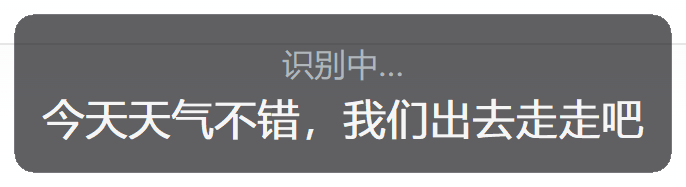
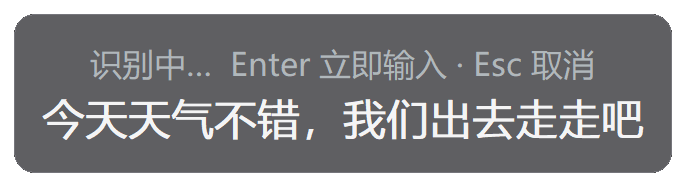
聆听或识别中按回车立即输入当前结果，Esc 取消识别

diff --git a/app/voice_ime.py b/app/voice_ime.py
@@ -41,7 +41,7 @@ HOTWORDS_HEADER = ("# 热词替换：每行一条，格式：原文 -> 替换为
                    "# 以 # 开头的行会被忽略，修改后下次识别自动生效\n")
 ICON_NAME = "icon.ico"
 FLOAT_ICON_NAME = "float.ico"
-APP_RELEASE = "2.2.5"
+APP_RELEASE = "2.2.6"
 PROJECT_URL = "https://github.com/yc-2018/DoubaoVoiceIME"
 DEFAULT_HOTKEY = "RALT"
 RUN_KEY = r"Software\Microsoft\Windows\CurrentVersion\Run"
@@ -636,8 +636,10 @@ class AsrSession:
         self.audio = bytearray()
         self.feed_stop = threading.Event()
         self.release_evt = threading.Event()
+        self.commit_evt = threading.Event()
         self.final_evt = threading.Event()
         self.cancelled = False
+        self.drop_tail = False
         self.closed = False
         self.text = ""
         self.speech_sec = 0.0
@@ -677,8 +679,16 @@ class AsrSession:
     def request_release(self):
         self.release_evt.set()
 
+    def commit(self):
+        # 回车：结束录音；已有结果时不再等最终回调，直接用当前文字
+        self.release_evt.set()
+        if self.text.strip():
+            self.commit_evt.set()
+            self.drop_tail = True
+
     def cancel(self):
         self.cancelled = True
+        self.drop_tail = True
         self.feed_stop.set()
         self.release_evt.set()
 
@@ -727,7 +737,7 @@ class AsrSession:
                 dt = t0 + n * 0.04 - time.perf_counter()
                 if dt > 0:
                     time.sleep(dt)
-        if not self.cancelled and self.h:
+        if not self.cancelled and not self.drop_tail and self.h:
             with self.lock:
                 tail = bytes(self.audio)
                 self.audio.clear()
@@ -789,11 +799,22 @@ class AsrSession:
         if self.feed_thread:
             with self.lock:
                 remain = len(self.audio)
-            self.feed_thread.join(remain / 32000.0 + 5.0)
+            end = time.monotonic() + remain / 32000.0 + 5.0
+            while self.feed_thread.is_alive() and time.monotonic() < end:
+                if self.cancelled:
+                    break
+                self.feed_thread.join(0.02)
+        if self.cancelled:
+            return
         t = time.perf_counter()
         rc = self.dll.SAMICoreSetProperty(self.h, 0xA2A, None)
         log(f"finish rc={rc}")
-        self.final_evt.wait(4.0)
+        end = time.monotonic() + 4.0
+        while not (self.final_evt.is_set() or self.commit_evt.is_set()
+                   or self.cancelled):
+            if time.monotonic() >= end:
+                break
+            time.sleep(0.02)
         self.finished = True
         log(f"final after {time.perf_counter() - t:.2f}s text={self.text!r}")
 
@@ -2069,6 +2090,11 @@ class Hotkey:
             self.down.add(tok)
             if tok == "ESC" and self.app.on_cancel():
                 self.active = False
+                self.swallowed.add(tok)
+                return True
+            if tok == "ENTER" and not injected and self.app.on_commit():
+                self.active = False
+                self.swallowed.add(tok)
                 return True
             if not injected:
                 if (not repeated and self._ctrl_z(tok)
@@ -5158,7 +5184,8 @@ class App:
         try:
             if sess.cancelled:
                 return
-            self.set_ui("rec", f"● 聆听中…  {self.hotkey.release_hint()}", live="")
+            self.set_ui("rec", f"● 聆听中…  {self.hotkey.release_hint()}"
+                        f" · Enter 立即输入", live="")
             if not self.args.wav:
                 if self.mic_mode == "press" or self.mic.stream is None:
                     try:
@@ -5186,9 +5213,17 @@ class App:
                 self.mic.detach(sess)
                 if press_mic:
                     self.mic.close()
-            self.set_ui("wait", "识别中…")
+            commit_evt = getattr(sess, "commit_evt", None)
+            if commit_evt is not None and commit_evt.is_set():
+                self.set_ui("wait", "已确认，正在输入…")
+            else:
+                self.set_ui("wait", "识别中…  Enter 立即输入 · Esc 取消")
             sess.finish()
             self.accept_live = False
+            if sess.cancelled:
+                log("session cancelled during finish")
+                return
+            sess.injecting = True
             text = apply_hotwords(format_text(sess.text, self.punctuation,
                                               self.paragraph_mode))
             if text:
@@ -5548,11 +5583,29 @@ class App:
             return
         sess.request_release()
 
+    def on_commit(self):
+        """回车：聆听/识别中直接用当前结果输入，不再等待最终识别。"""
+        if self.capturing or self.testing:
+            return False
+        with self.lock:
+            sess = self.session
+        if sess is None or sess.cancelled or getattr(sess, "injecting", False):
+            return False
+        evt = getattr(sess, "commit_evt", None)
+        if evt is None:
+            return False
+        if evt.is_set():
+            return True
+        sess.commit()
+        log(f"commit hotkey text={len(sess.text)} chars")
+        return True
+
     def on_cancel(self):
         with self.lock:
             sess = self.session
-        if sess:
+        if sess and not sess.cancelled and not getattr(sess, "injecting", False):
             sess.cancel()
+            log("cancel hotkey")
             return True
         return False
 

diff --git a/app/api_wetype.py b/app/api_wetype.py
@@ -115,6 +115,7 @@ class WeChatSession:
         self.cancelled = False
         self.closed = False
         self.release_evt = threading.Event()
+        self.commit_evt = threading.Event()
         self._stop = threading.Event()
         self._lock = threading.Lock()
         self._audio = bytearray()
@@ -139,6 +140,12 @@ class WeChatSession:
 
     def request_release(self):
         self.release_evt.set()
+
+    def commit(self):
+        # 回车：结束录音；已有结果时跳过润色等待，直接用当前文字
+        self.release_evt.set()
+        if self.text.strip():
+            self.commit_evt.set()
 
     def cancel(self):
         self.cancelled = True
@@ -227,7 +234,7 @@ class WeChatSession:
                 del packets[:PACKETS_PER_REQUEST]
             self._upload(packets, True)
             for _ in range(8):
-                if self.polished:
+                if self.polished or self.commit_evt.is_set():
                     break
                 if self._stop.wait(0.25):
                     return

diff --git a/app/api_doubao.py b/app/api_doubao.py
@@ -192,6 +192,7 @@ class DoubaoApiSession:
         self.cancelled = False
         self.closed = False
         self.release_evt = threading.Event()
+        self.commit_evt = threading.Event()
         self._done = threading.Event()
         self._stop = threading.Event()
         self._lock = threading.Lock()
@@ -219,6 +220,13 @@ class DoubaoApiSession:
 
     def request_release(self):
         self.release_evt.set()
+
+    def commit(self):
+        # 回车：结束录音；已有结果时不再等服务端收尾，直接用当前文字
+        self.release_evt.set()
+        if self.text.strip():
+            self.commit_evt.set()
+            self._done.set()
 
     def cancel(self):
         self.cancelled = True

diff --git a/app/api_baidu.py b/app/api_baidu.py
@@ -83,6 +83,7 @@ class BaiduSession:
         self.cancelled = False
         self.closed = False
         self.release_evt = threading.Event()
+        self.commit_evt = threading.Event()
         self._done = threading.Event()
         self._stop = threading.Event()
         self._lock = threading.Lock()
@@ -110,6 +111,13 @@ class BaiduSession:
 
     def request_release(self):
         self.release_evt.set()
+
+    def commit(self):
+        # 回车：结束录音；已有结果时不再等最终结果，直接用当前文字
+        self.release_evt.set()
+        if self.text.strip():
+            self.commit_evt.set()
+            self._done.set()
 
     def cancel(self):
         self.cancelled = True

diff --git a/app/api_ifly.py b/app/api_ifly.py
@@ -95,6 +95,7 @@ class IflySession:
         self.cancelled = False
         self.closed = False
         self.release_evt = threading.Event()
+        self.commit_evt = threading.Event()
         self._done = threading.Event()
         self._stop = threading.Event()
         self._lock = threading.Lock()
@@ -119,6 +120,13 @@ class IflySession:
 
     def request_release(self):
         self.release_evt.set()
+
+    def commit(self):
+        # 回车：结束录音；已有结果时不再等最终结果，直接用当前文字
+        self.release_evt.set()
+        if self.text.strip():
+            self.commit_evt.set()
+            self._done.set()
 
     def cancel(self):
         self.cancelled = True

diff --git a/app/api_qwen.py b/app/api_qwen.py
@@ -96,6 +96,7 @@ class QwenSession:
         self.cancelled = False
         self.closed = False
         self.release_evt = threading.Event()
+        self.commit_evt = threading.Event()
         self._done = threading.Event()
         self._stop = threading.Event()
         self._lock = threading.Lock()
@@ -121,6 +122,13 @@ class QwenSession:
 
     def request_release(self):
         self.release_evt.set()
+
+    def commit(self):
+        # 回车：结束录音；已有结果时不再等最终结果，直接用当前文字
+        self.release_evt.set()
+        if self.text.strip():
+            self.commit_evt.set()
+            self._done.set()
 
     def cancel(self):
         self.cancelled = True

diff --git a/README.md b/README.md
@@ -6,7 +6,7 @@
 
 - 识别引擎可切换：豆包（本地 DLL）、豆包（云端 API）、千问、微信输入法、百度输入法、讯飞；云端引擎无需登录
 - 测试全部引擎：在设置里点“测试全部引擎”，同一段话同时交给六个引擎识别，并显示各自耗时与最快/最慢
-- 长按说话、松开输入，`Esc` 取消；轻点一下会自动忽略，不会上传识别；也支持免按模式（按一次开始，再按热键、任意键或鼠标键结束）
+- 长按说话、松开输入；聆听或识别中按 `Enter` 立即用当前结果输入，不必等最终识别；`Esc` 取消；轻点一下会自动忽略，不会上传识别；也支持免按模式（按一次开始，再按热键、任意键或鼠标键结束）
 - 实时转录浮层，边说边看；圆角半透明样式，聆听时音波随音量实时跳动
 - 悬浮按钮（默认关闭）：单击开始说话、再单击结束，可自由拖动、右键隐藏，不抢焦点
 - 默认快捷键 `右 Alt`，可改成组合键、单功能键或鼠标中键/侧键
@@ -56,7 +56,7 @@
 
 1. 从 [Releases](../../releases) 下载 `DoubaoVoice.exe`
 2. 双击运行，出现托盘图标即已就绪
-3. 在任意输入框里按住 `右 Alt`（或你设置的快捷键）说话，松开后自动输入；按 `Esc` 取消本次录音
+3. 在任意输入框里按住 `右 Alt`（或你设置的快捷键）说话，松开后自动输入；识别较慢时，在聆听或识别中按 `Enter` 可立即输入当前已有结果，按 `Esc` 取消本次录音
 4. 想免按说话时，在设置或托盘菜单开启悬浮按钮：单击开始录音，再单击结束；按钮可拖到屏幕任意位置，右键隐藏
 5. 右击托盘图标选择“设置…”可集中调整输入方式、快捷键、麦克风、文字格式、热词替换与整理快捷键；托盘菜单也可快速设置语音/整理快捷键、开机自启、麦克风预热或退出
 6. 选中文字后按整理快捷键（需先在设置中设置）即可原地整理选中内容
@@ -67,9 +67,9 @@
 
 ![设置窗口](docs/screenshots/settings.png)
 
-窗口标题带当前版本号（如 `v2.2.5`），便于确认正在运行的是哪个版本。
+窗口标题带当前版本号（如 `v2.2.6`），便于确认正在运行的是哪个版本。
 
-- **语音输入方式**：长按说话（默认）或免按模式。长按模式下可设置**最短按住**（默认 0.25 秒）：按住时间短于该值时视为误触，直接忽略，不上传也不识别；设为“不限制”则保留旧行为。免按模式按一次热键开始录音，再按同一热键、任意字母/数字键、空格/回车或鼠标键结束；单按 Ctrl/Alt/Shift 不会结束；录音中按 `Esc` 取消。
+- **语音输入方式**：长按说话（默认）或免按模式。长按模式下可设置**最短按住**（默认 0.25 秒）：按住时间短于该值时视为误触，直接忽略，不上传也不识别；设为“不限制”则保留旧行为。免按模式按一次热键开始录音，再按同一热键、任意字母/数字键、空格或鼠标键结束（按 `Enter` 立即用当前结果输入）；单按 Ctrl/Alt/Shift 不会结束；录音中按 `Esc` 取消。
 - **识别引擎**：豆包（默认，使用内置 SDK）、豆包（云端 API）、千问（云端 API）、微信输入法（云端 API）、百度输入法（云端 API）、讯飞（云端 API）。切换后立即生效，下一次录音使用新引擎；云端引擎不需要登录或填任何密钥。云端引擎不提供“数字、英文”空格选项，切换到云端后该项自动置灰。点击旁边的“测试全部引擎”可打开测试窗口：按住按钮说话（也可点一下开始、再点一下结束），六个引擎同时识别同一段录音，并显示各自从停止说话到出结果的耗时，以及最快/最慢的引擎。豆包本地引擎在检测到至少 1 秒有效语音却无结果时，会立即自动更换随机设备号，并弹出右下角小提示；5 分钟内最多更换一次，冷却期内仍失败会提示重试或切换引擎；说话不足 1 秒时只提示未识别到内容，不更换设备号。
 - **快捷键**：点“更改…”后按下新组合键，必须包含 Ctrl/Alt/Shift，或使用 F1–F12；鼠标中键、侧键（后退/前进）可以单独使用，也可以搭配 Ctrl/Alt/Shift。若侧键被厂商驱动改成了键盘宏，会按键盘键识别。
 - **麦克风**：输入设备可自动检测（系统默认）或指定，列表只包含 MME / DirectSound 设备。**麦克风预热**默认开启：空闲时保持音频流，不上传也不识别，只缓存最近约 0.15 秒用于补上开口瞬间，延迟最低；关闭后只在录音期间打开，系统麦克风指示器随之熄灭，代价是通话/蓝牙设备启动时可能多几十毫秒。
